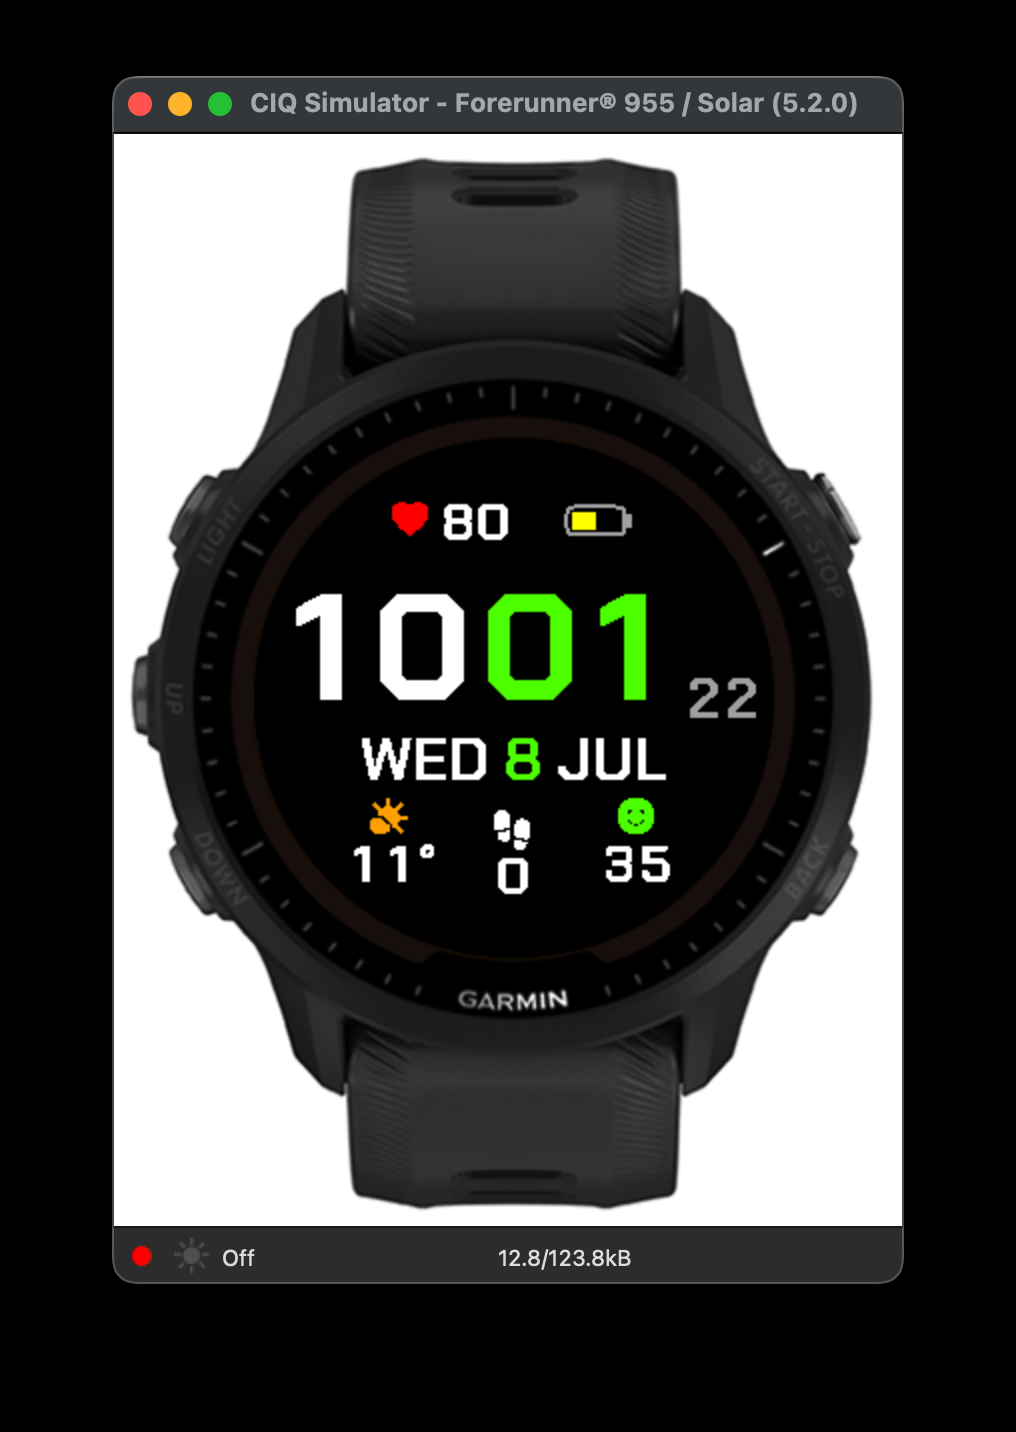
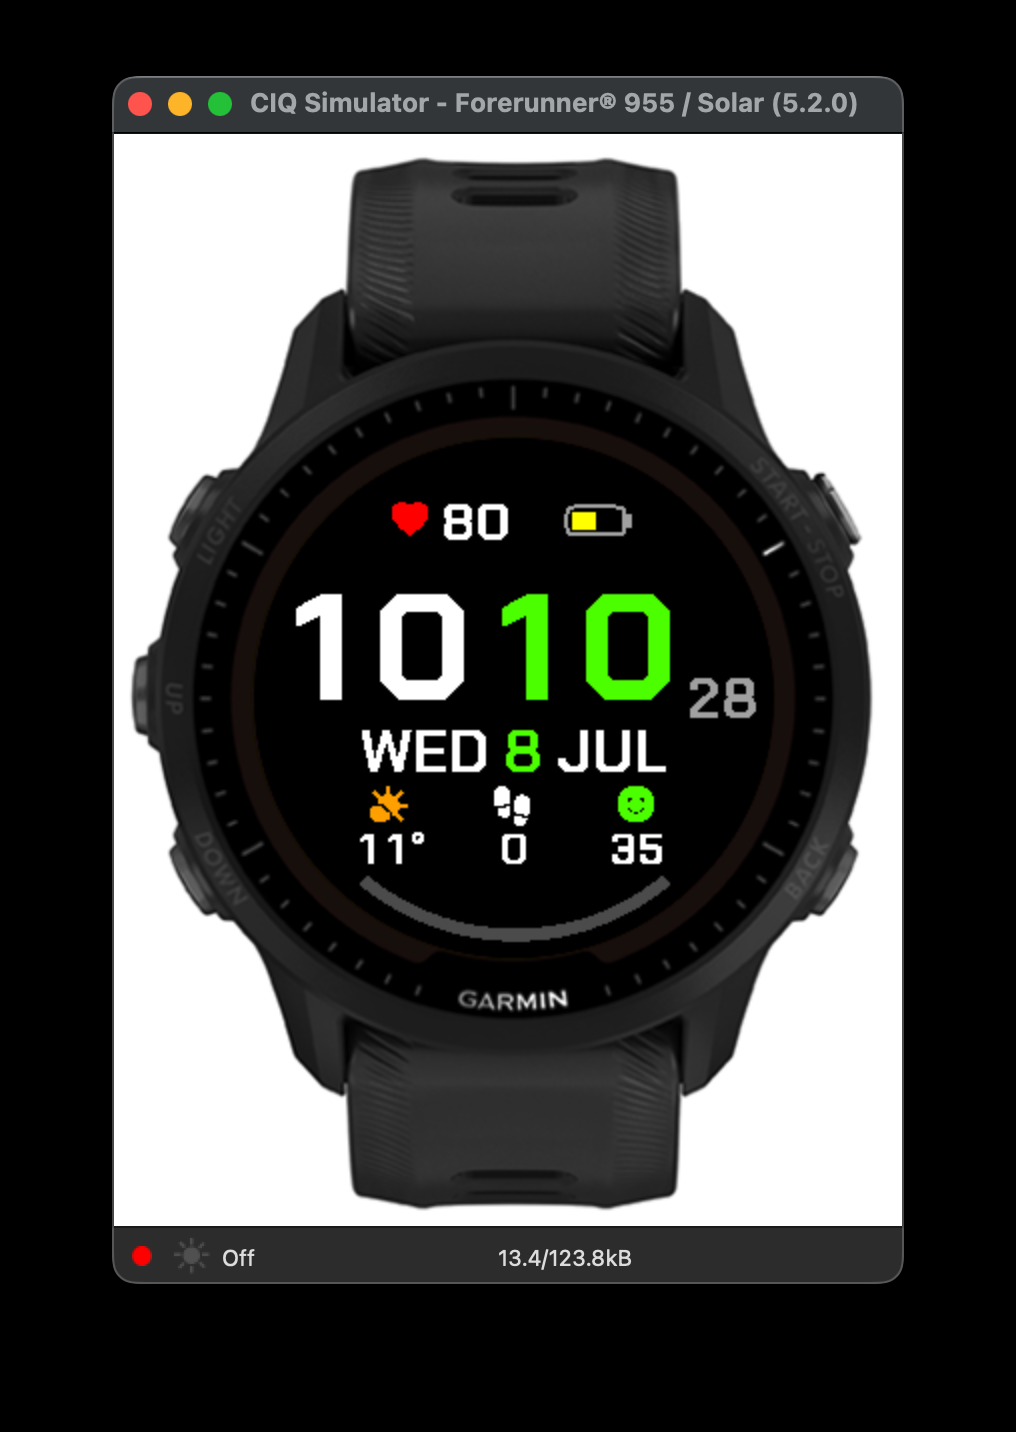
Shrink bottom data font and add a step-goal progress arc
The three bottom items (weather, steps, stress) were crowding each other
and dipping toward the lower bezel, so they move to a dedicated 22px
font on a single baseline. A step-goal progress arc now hugs the bottom
rim (dim track + theme-color progress, 230°–310°), filling the empty
lower curve and giving the step count goal context — a nod to Crystal's
meters and Garmin's stock move bar.

Applied to both TEMPO and PULSE (shared source stays identical);
gen_bmfont emits the new "small" role font per face and resolution.

Changed region(s): [[0.3356, 0.3994, 0.6713, 0.676], [0.7018, 0.4609, 0.7628, 0.5223], [0.5187, 0.8603, 0.5492, 0.8911]]

diff --git a/tools/gen_bmfont.py b/tools/gen_bmfont.py
@@ -253,6 +253,8 @@ def gen_set(out_dir, s, cfg):
     gen_text_font(data_ttf, round(data_sz * s), DATA_CHARS, "data")
     # 日期单独一套更大字号（30）：日期行横向空间充裕，放大让字母（尤其 W 的斜画）锯齿更轻
     gen_text_font(data_ttf, round(30 * s), DATA_CHARS, "date")
+    # 底部三格数值单独一套小字号（22）：避免相互及与下半圆边挤碰
+    gen_text_font(data_ttf, round(22 * s), " -0123456789°k", "small")
     gen_text_font(data_ttf, round(sec_sz * s), "0123456789", "sec")
     gen_material_icons("icons", round(22 * s), ICON_MAP)
 